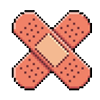
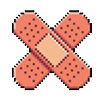
29th psh

diff --git a/main.css b/main.css
@@ -33,9 +33,8 @@ body{
     display: inline-block;
     position: relative;
     color: white;
-    margin-bottom: 15px;
-    margin-left: 0px;
-    margin-right: 0px;
+    margin-left: 0;
+    margin-right: 0;
     padding-bottom: 0;
     vertical-align: top;
    
@@ -45,20 +44,20 @@ body{
     position: relative;
     text-align: center;
     font-family: 'Martyric Personal Use Only', sans-serif;
-    font-size: 5vh;
+    font-size: 6vh;
     padding: 0;
     border: 0;
     margin: 0;
     background-color: #F273FF;
-    height: 15% ;
+    height: 17% ;
     border-bottom: 5px dashed white;
-    -webkit-text-stroke-width: 1px;
+    -webkit-text-stroke-width: 1.5px;
     -webkit-text-stroke-color: #7380FF;
 }
 
 .title{
     color: black;
-    font-size: 7vh;
+    font-size: 9vh;
     position: relative;
     text-align: center;
     font-family: 'Martyric Personal Use Only', sans-serif;  
@@ -66,24 +65,25 @@ body{
     line-height: 10vh;
     padding-left: 35px;
     padding-right: 45px;
-    -webkit-text-stroke-width: 1.3px;
-    -webkit-text-stroke-color: #ac73ff;
+    -webkit-text-stroke-width: 2px;
+    -webkit-text-stroke-color: #7380FF;
 }
+
 
 
 .logojocuri{
     display: inline-flex;
     align-items: center;
     justify-content: center;
-    height: 70%;
+    height: 66.5%;
     width: 100%;
 
     
 }
 
 .logojocuri img{
-    margin-left: 2em;
-    margin-right: 2em;
+    margin-right: 3vh;
+    margin-left: 3vh;
    
 }
 
@@ -124,7 +124,7 @@ body{
     display: inline-flex;
     align-items: center;
     justify-content: center;
-    height: 15%;
+    height: 17.5%;
     
 
 }
@@ -133,9 +133,14 @@ body{
     color: white;
     font-family: 'Martyric Personal Use Only', sans-serif;
     font-size: 3vw;
-    -webkit-text-stroke-width: 0.7px;
+    -webkit-text-stroke-width: 1.3px;
     -webkit-text-stroke-color: #7380FF;
     word-spacing: 0.3em;
     margin: 0;
     padding: 0;
+}
+
+.mesajmain img{
+    width: 12vh;
+    margin: 2vh;
 }

diff --git a/index.html b/index.html
@@ -21,7 +21,9 @@
         <a href="Jocuri/game3.html"><img src="Images/battleshipslogo.png" class="logobattleships column"></a>
     </div>
     <div class="mesajmain">
+        <img src="Images/bandageimage.png">
         <h1>CHOOSE YOUR GAME!!</h1>
+        <img src="Images/bandageimage.png">
     </div>
 </body>
 
